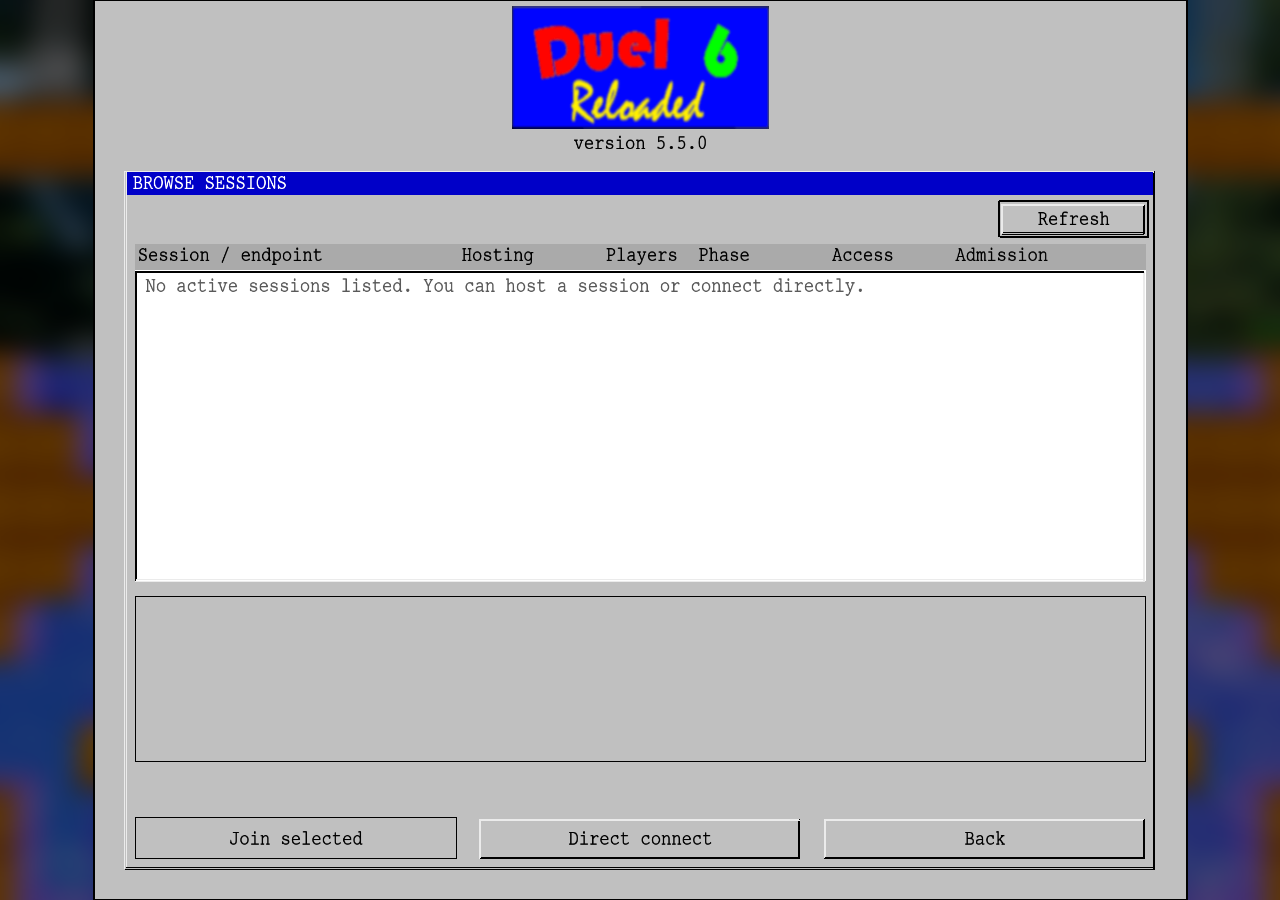
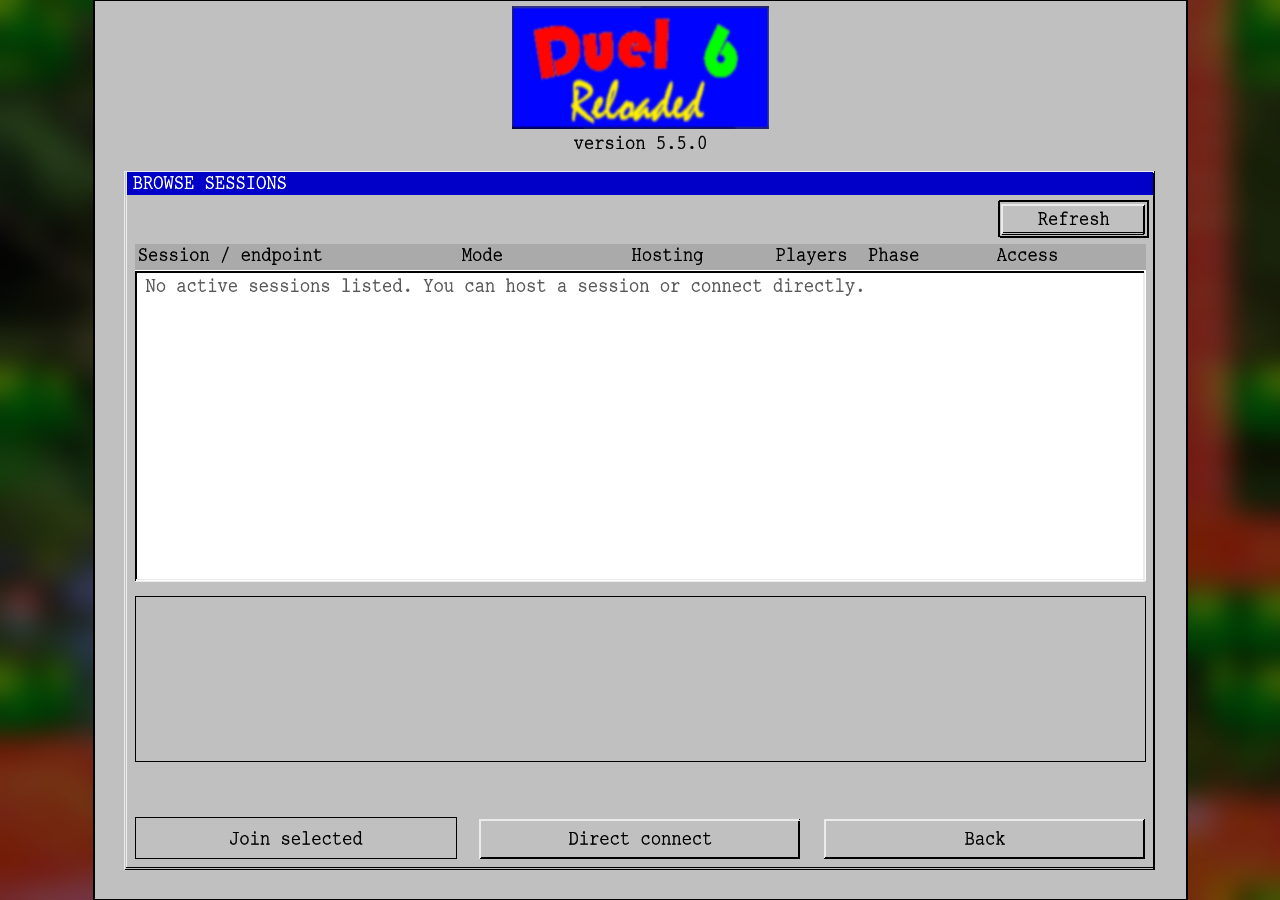
Record accepted Browse Mode and Access screenshots

diff --git a/docs/design/screenshots/README.md b/docs/design/screenshots/README.md
@@ -11,12 +11,12 @@ Replace a representative at its stable path when its appearance or representativ
 <a id="current-representative-originals"></a>
 ## Current representatives
 
-**Source and profile.** All originals use clean source [`dabdc89774962fac3e4951f46a6c5cfc6a18475a`](https://github.com/mkapusnik-apps/duel6r/commit/dabdc89774962fac3e4951f46a6c5cfc6a18475a), Ubuntu 24.04.5 Linux x86-64 Docker Release GL4/Lua ON, shipped font and assets, private 24-bit Xvfb with software OpenGL, dummy audio, and native keyboard/pointer input. The network worker reported Mesa llvmpipe (LLVM 20.1.2), OpenGL 4.5 Core; this is not a per-frame measurement. Local and owned network scenarios used disposable persons and real game outcomes.
+**Source and profile.** Except for the three Browse rows noted below, originals use clean source [`dabdc89774962fac3e4951f46a6c5cfc6a18475a`](https://github.com/mkapusnik-apps/duel6r/commit/dabdc89774962fac3e4951f46a6c5cfc6a18475a), Ubuntu 24.04.5 Linux x86-64 Docker Release GL4/Lua ON, shipped font and assets, private 24-bit Xvfb with software OpenGL, dummy audio, and native keyboard/pointer input. The network worker reported Mesa llvmpipe (LLVM 20.1.2), OpenGL 4.5 Core; this is not a per-frame measurement. Local and owned network scenarios used disposable persons and real game outcomes.
 
[2 lines of base64/hex data omitted]
 
-Times are UTC on **2026-11-26** at PNG write completion, not GPU presentation. Where only whole seconds are shown, the export retained only whole-second filesystem time.
+Unless otherwise stated, times are UTC on **2026-11-26** at PNG write completion, not GPU presentation. Where only whole seconds are shown, the export retained only whole-second filesystem time.
 
 <a id="current-local-play-and-menu-originals"></a>
 
@@ -51,9 +51,11 @@ Times are UTC on **2026-11-26** at PNG write completion, not GPU presentation. W
[9 lines of base64/hex data omitted]
+
[1 lines of base64/hex data omitted]
 
 The three Browse images show the current absence of `LAN-first.` They do not establish conformance with that retained copy expectation.
 
